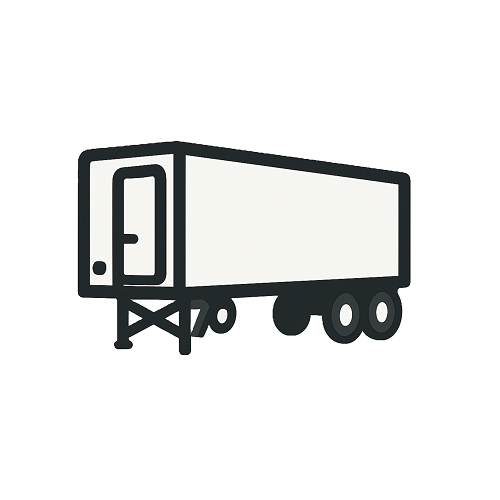
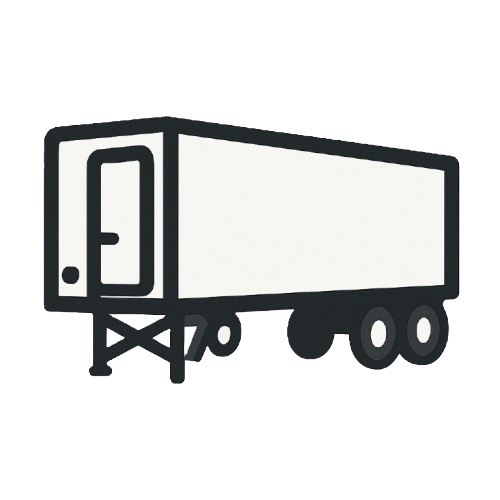
some update

Changed region(s): [[0.06, 0.21, 0.93, 0.78]]

diff --git a/src/app/components/Navbar.js b/src/app/components/Navbar.js
@@ -65,7 +65,7 @@ function Navbar() {
       zIndex: 1100,
     },
     logo_img: {
-      backgroundImage: `url("https://www.cbtransportationcanada.com/logo.png")`,
+      backgroundImage: `url("https://www.cbtransportationcanada.com/icon.png")`,
       backgroundSize: "cover",
       backgroundPosition: "center",
       height: "60px",
@@ -173,7 +173,7 @@ function Navbar() {
         <Link to="home_page" duration={500} smooth={true}>
           <Button sx={styles.logo_box_parent}>
             <Image
-              src="/logo_test.png" // local image from public
+              src="/icon.png" // local image from public
               alt="Logo"
               width={60} // width in pixels
               height={60} // height in pixels

diff --git a/src/app/components/NavbarCarrier.js b/src/app/components/NavbarCarrier.js
@@ -41,7 +41,7 @@ function NavbarCarrier() {
       marginLeft: isMobile ? "15px" : "25px",
     },
     logo_img: {
-      backgroundImage: `url("/logo_test.png")`,
+      backgroundImage: `url("/icon.png")`,
       backgroundSize: "cover",
       backgroundPosition: "center",
       height: "60px",

diff --git a/src/app/components/Footer.js b/src/app/components/Footer.js
@@ -103,7 +103,7 @@ function Footer() {
       margin: "0 auto",
     },
     logo_box: {
-      backgroundImage: `url("/logo_test.png")`,
+      backgroundImage: `url("/icon.png")`,
       //   border: "solid red 2px",
       backgroundSize: "cover",
       backgroundPosition: "center",
